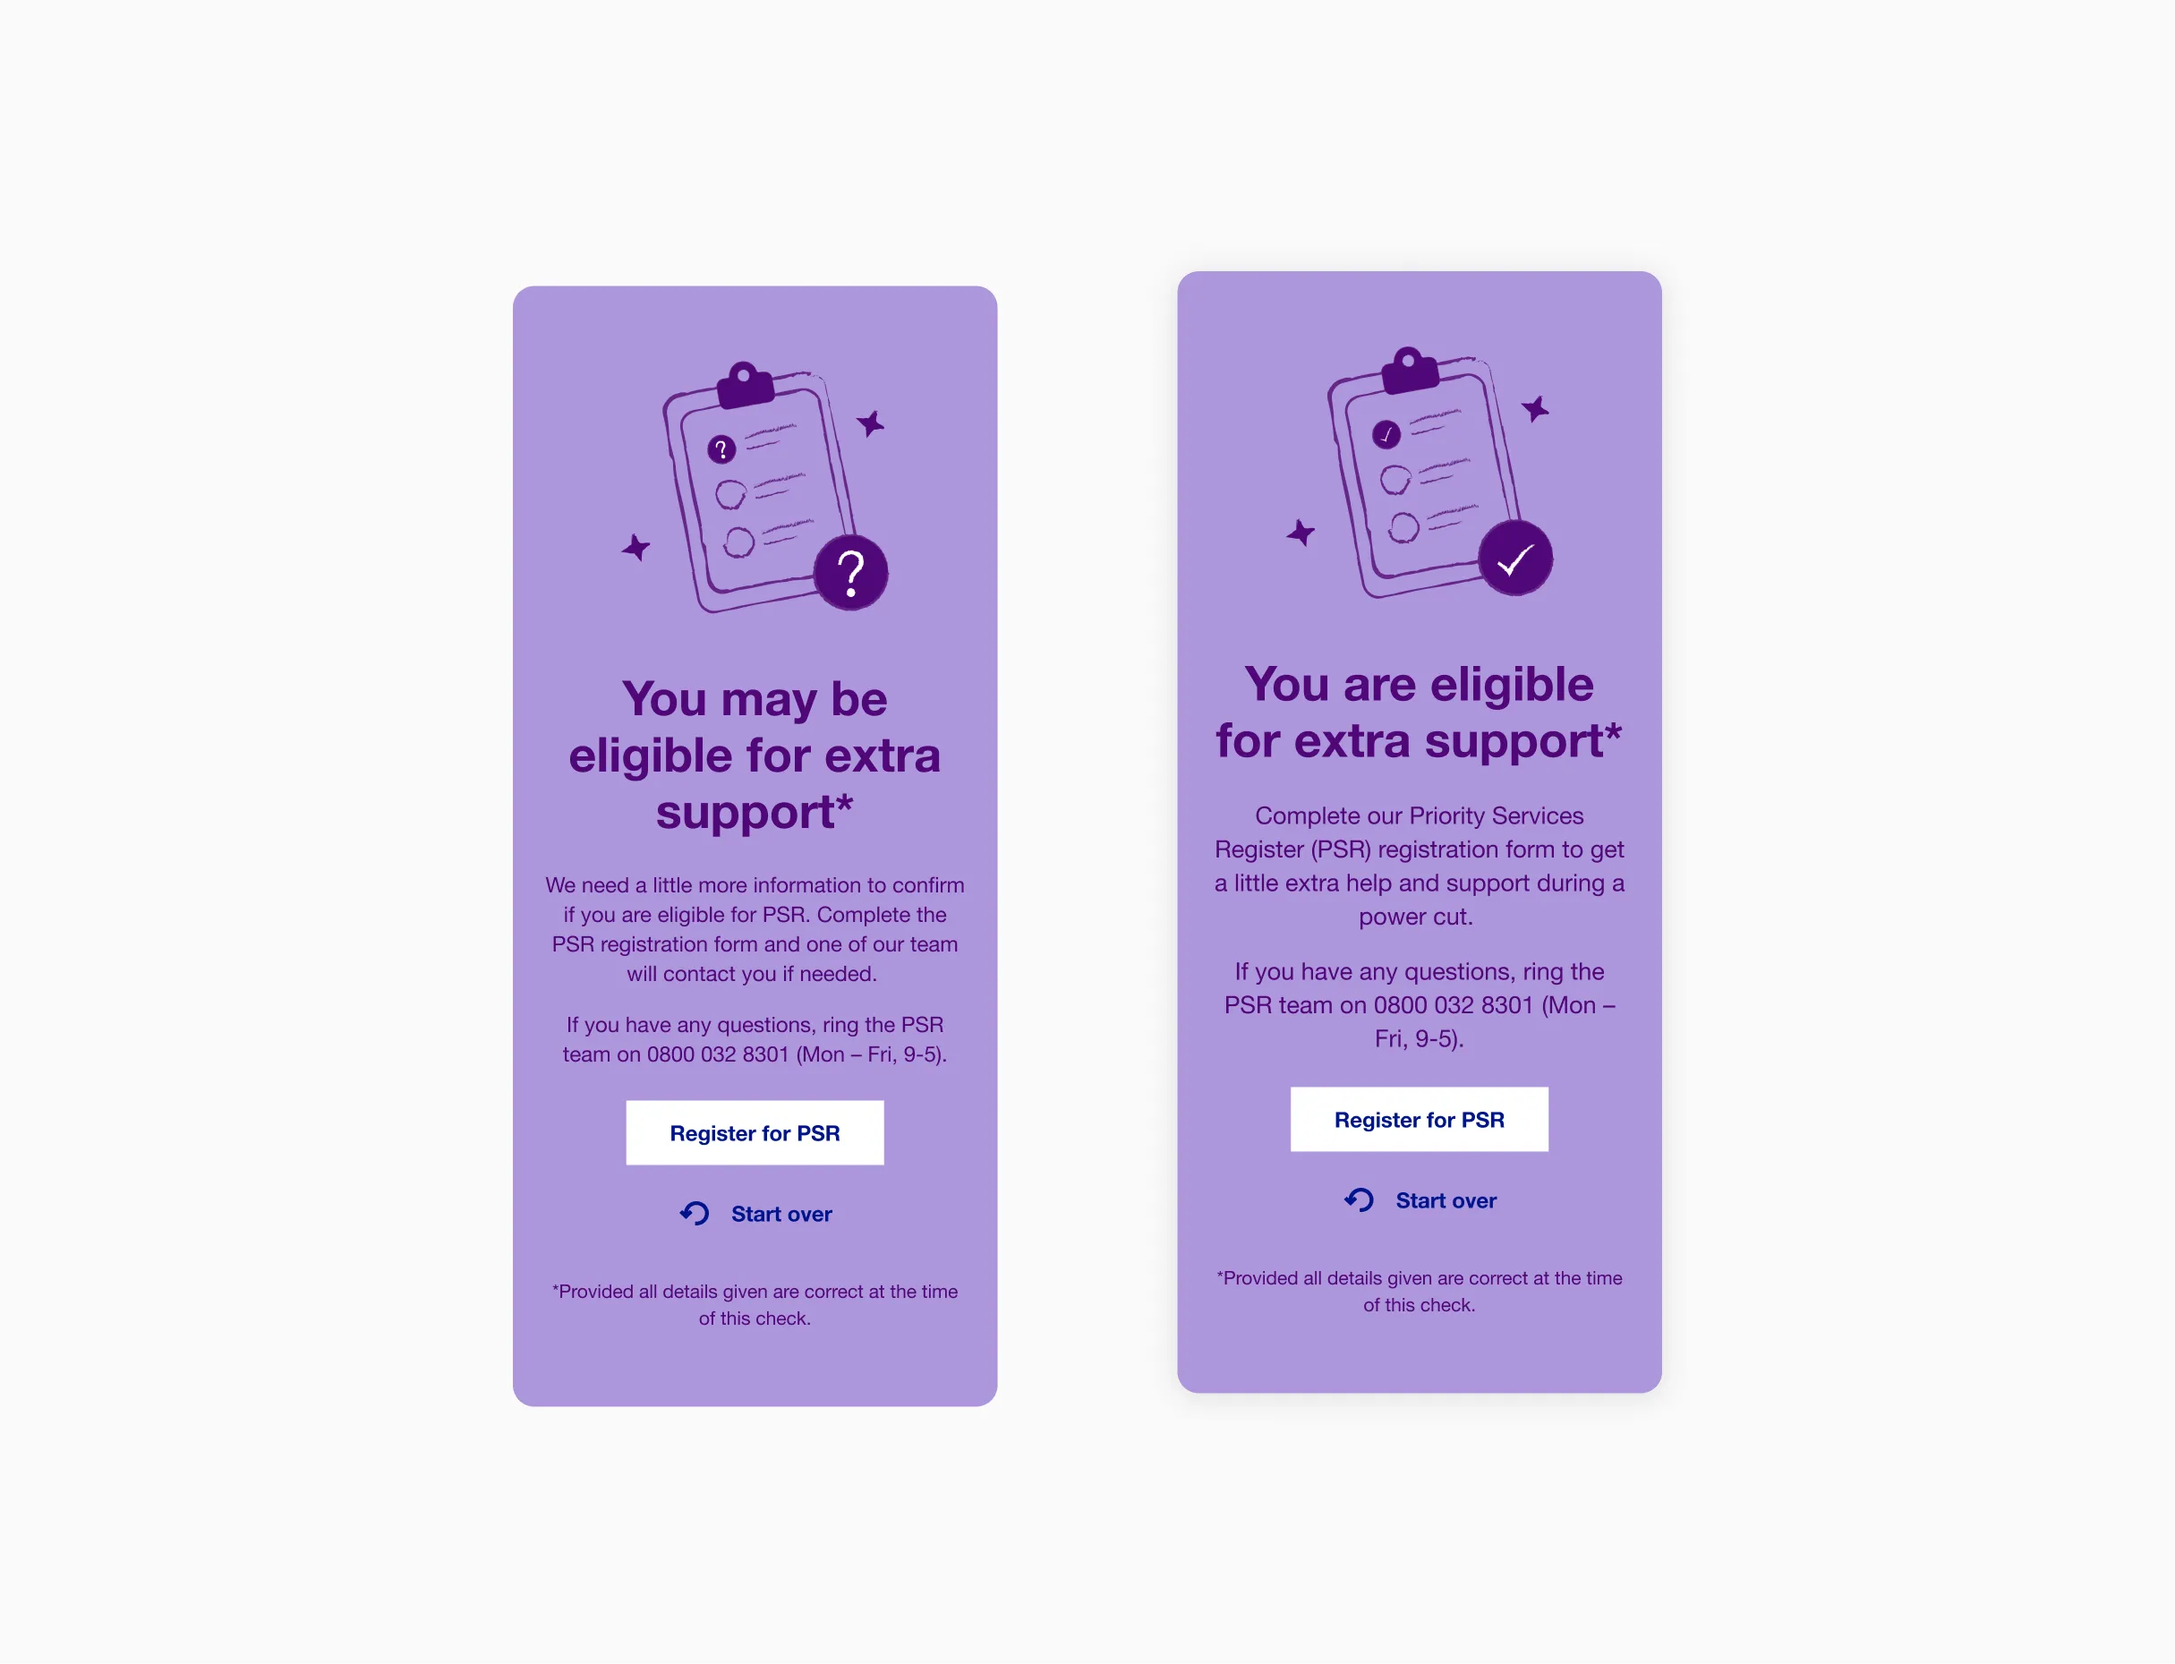
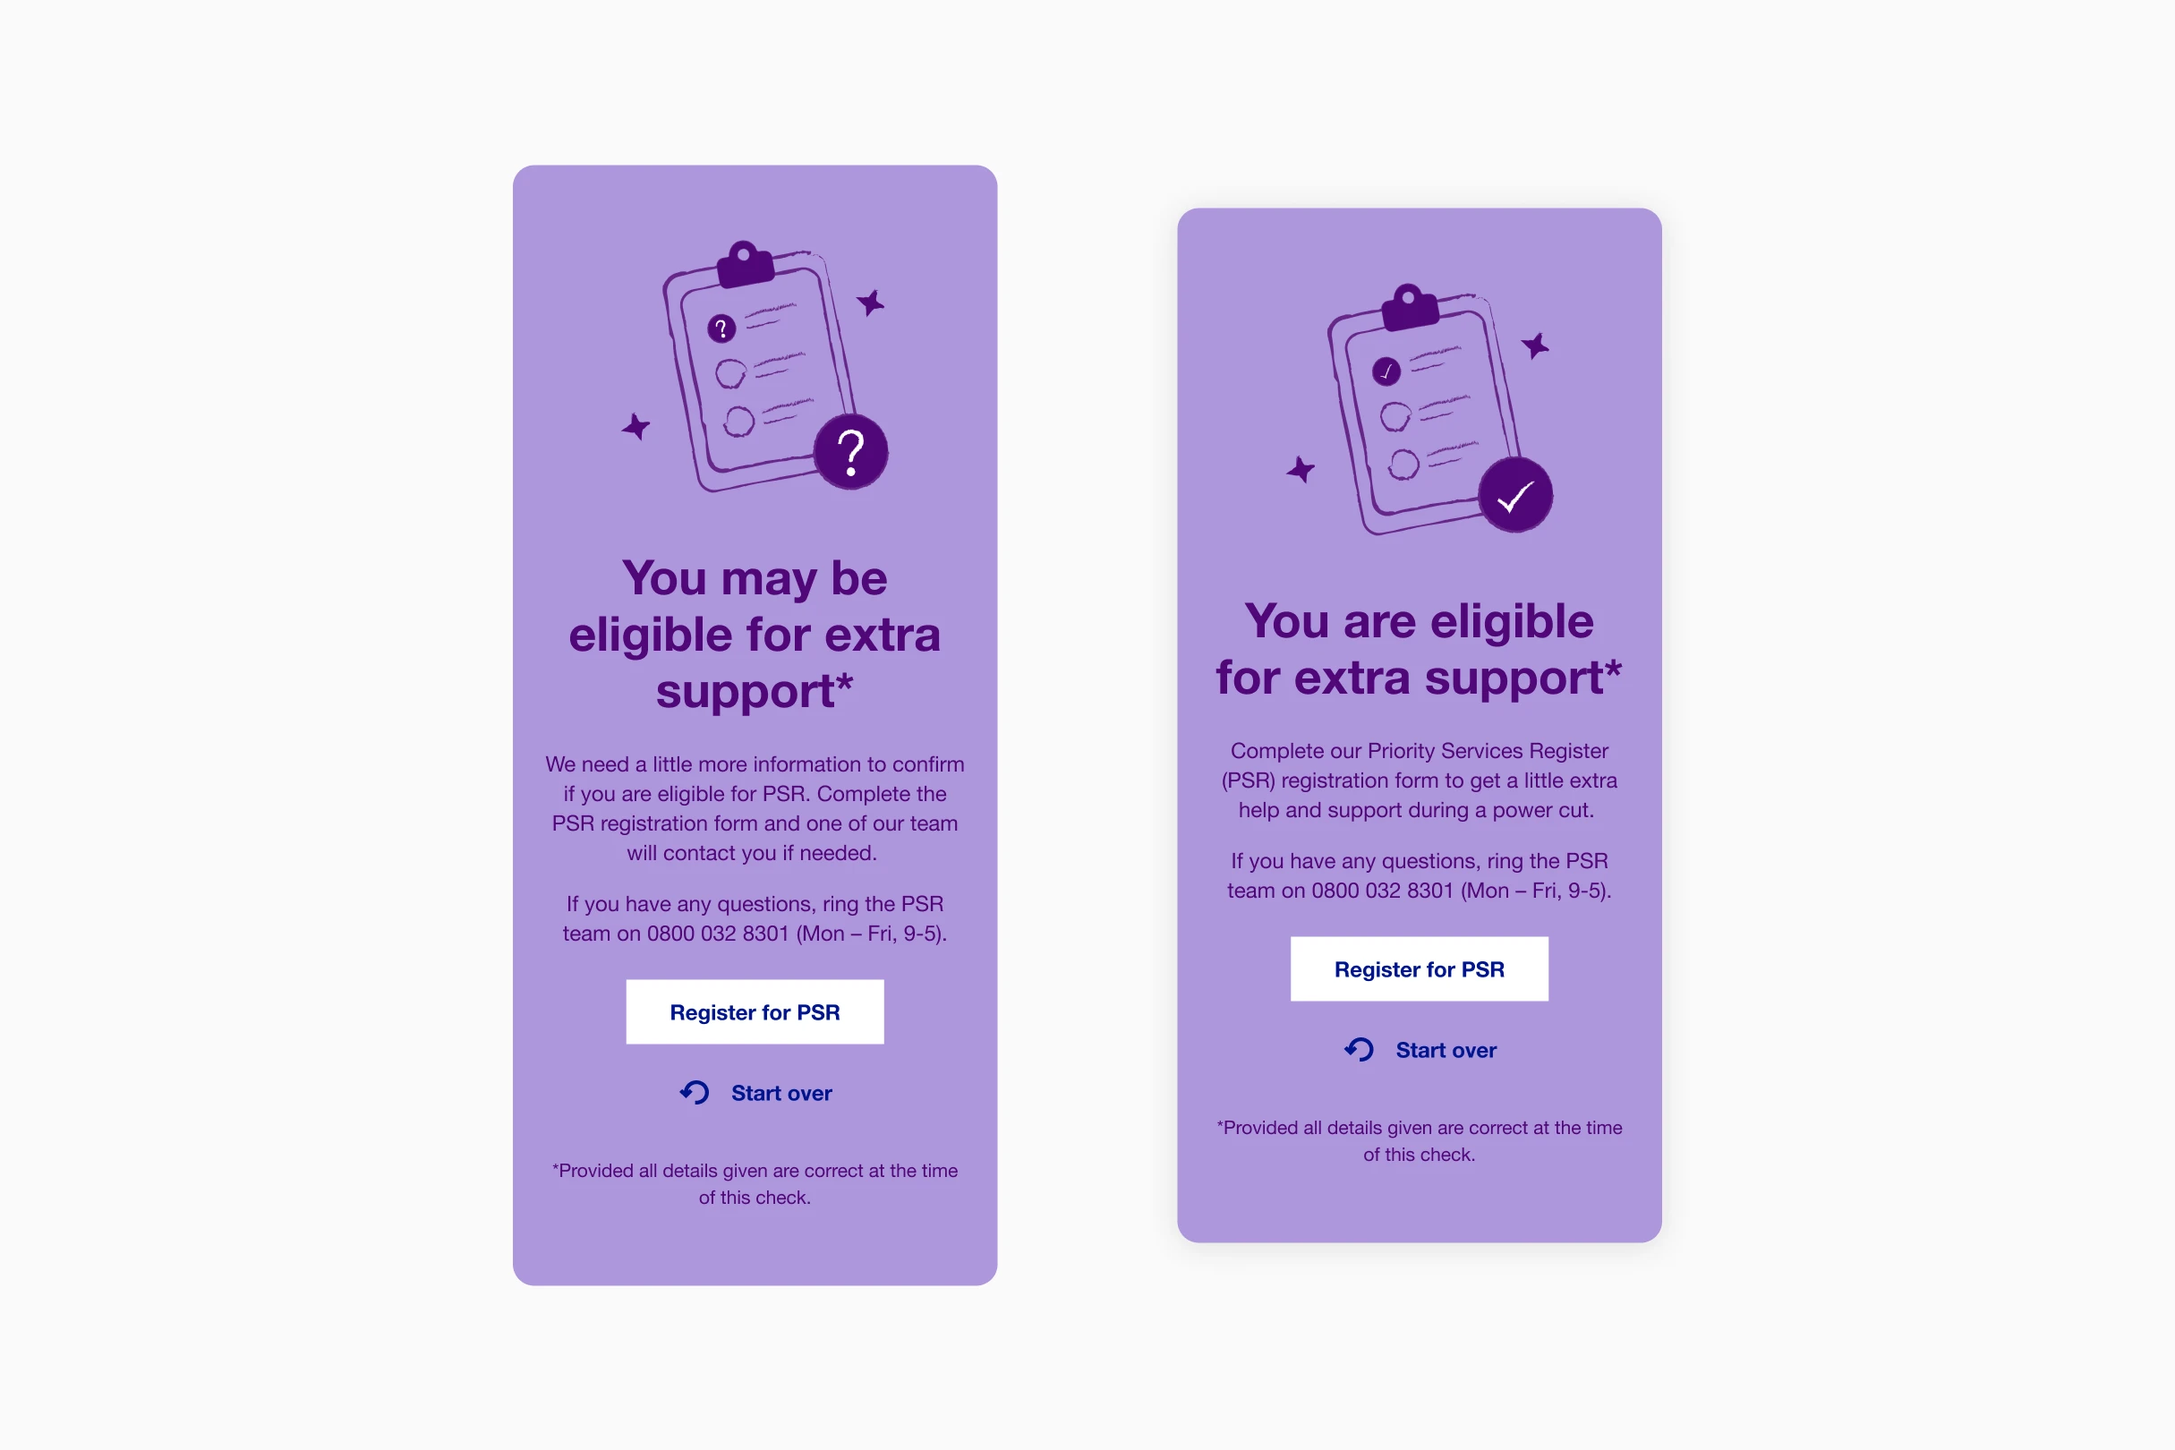
PSR case study tweaks

diff --git a/projects/eligibility-checker.html b/projects/eligibility-checker.html
@@ -57,8 +57,8 @@
                 </p>
                 
                                 <ul class="case-study-list">
-    <li>Role: Lead designer</li>
-    <li>Team: 1 Content Designer, 1 PM and 1 Engineer</li>
+    <li>Point 1</li>
+    <li>Point 2</li>
 </ul>
 
 
@@ -86,7 +86,7 @@
 <figure class="case-study-figure">
 
 <div class="case-study-image">
-        <img src="../assets/images/projects/NGED/PSR-07.webp" class="lightbox-trigger" alt="National Grid's legacy priority services register application form">
+        <img src="../assets/images/projects/NGED/psr-10.webp" class="lightbox-trigger" alt="National Grid's legacy priority services register application form">
     </div>
     
     <figcaption class="image-caption">The current National Grid priority services register application form</figcaption>
@@ -150,15 +150,55 @@
 
 <p>This decision also simplified the back-end logic. Reducing the decision tree by 50%. That was because selecting unsure created a split in the decision tree where the system had to understand if the user moving on has flagged unsure at any point which would eventually lead them to a ‘you may be eligible’ screen.</p>
 
+    <h3 class="section-title">Design validation</h3>
+<p>
+    Ideally, a tool designed for vulnerable customers would undergo extensive external testing, but a tight timeline meant we had to be strategic. I leaned heavily into the existing NGED design system and built 90% of the experience using established NGED design system patterns. We could skip testing the basic UI and focus our internal sessions entirely on the flow and tone of voice.
+
+</p>
+
+<p>
+    To validate the UX, I ran sessions with colleagues from across the business, specifically including those who were already on a PSR themselves. Their feedback was incredibly consistent and helped us quickly pinpoint the main friction points while saving significant time and budget.
+</p>
+
+<ul class="case-study-list">
+    <li>Many participants completely missed the "unsure" help provider.</li>
+    <li>The introductory page didn't clearly explain what the Priority Services Register actually is.</li>
+    <li>Inline tooltips were overlooked by all participants.</li>
+    <li>Clicking "None of the above" was ambiguous and users didn't realise it would lead them to a subsequent category of needs.</li>
+</ul>
+
+<figure class="case-study-figure">
+
 <div class="case-study-image">
-        <img src="../assets/images/projects/NGED/PSR-08.webp" class="lightbox-trigger" alt="UI Design">
+        <img src="../assets/images/projects/NGED/PSR-05.webp" class="lightbox-trigger" alt="UI Design">
     </div>
+    
+    <figcaption class="image-caption">Updated design based on testing feedback</figcaption>
+    
+</figure>
+
+<figure class="case-study-figure">
+
+<div class="case-study-image">
+        <img src="../assets/images/projects/NGED/PSR-06.webp" class="lightbox-trigger" alt="UI Design">
+    </div>
+    
+    <figcaption class="image-caption">Unsure instead became a precursor to the 'you aren't eligible' result</figcaption>
+    
+</figure>
+
+    <h3 class="section-title">Technical feasbility</h3>
+
+<p>
+    I needed to prove the technical feasibility of the design. While we reused a significant amount of existing components, the new flow required some custom elements and styling. We built and deployed the tool in a pre-prod environment, which was a critical step. It gave us a 1:1 understanding of exactly what backend logic changes were required to seamlessly align our new flow with National Grid’s existing architecture before pushing to production.
+</p>
+
 
                     <h3 class="section-title">Softening the visuals</h3>
 <p>The users coming to this tool may be managing chronic illness, caring for a vulnerable relative, or dealing with a difficult diagnosis. The design had to feel approachable without feeling patronising.</p>
 
 <div class="case-study-image">
-        <img src="../assets/images/projects/NGED/PSR-05.webp" class="lightbox-trigger" alt="UI Design">
+        <img src="../assets/images/projects/NGED/PSR-07.webp" class="lightbox-trigger" alt="UI Design">
     </div>
 
 
@@ -172,22 +212,25 @@
 <p>The tool reflected the PSR form of being able to submit a claim for yourself or on behalf of somebody else. The language reflected that to ensure there was no confusion about the journey taken by customers.</p>
 
 <div class="case-study-image">
-        <img src="../assets/images/projects/NGED/PSR-06.webp" class="lightbox-trigger" alt="UI Design">
+        <img src="../assets/images/projects/NGED/PSR-08.webp" class="lightbox-trigger" alt="UI Design">
     </div>
 
-    <h3 class="section-title">Pragmatic validation</h3>
-<p>
-    Ideally, a tool designed for vulnerable customers would undergo extensive external usability testing. However, working within strict timeline constraints meant we had to be strategic with our validation.
-</p>
-<p>
-    To mitigate risk, I leaned heavily into the existing NGED design system. By building 90% of the experience using established, well-known UI patterns from the wider National Grid site, we could be confident in the foundational usability. This allowed us to focus our internal testing sessions with colleagues purely on comprehending the flow and the tone of voice, rather than basic UI interaction, saving significant time and budget.
-</p>
+
 
                     <h3 class="section-title">Project outcomes</h3>
 <p>Most users can find out if they are eligible for PSR within two clicks. Given the old experience required completing an entire form before finding out if you even qualified. This felt like a meaningful shift towards Ofgems goal of getting more customers, who are eligible, onto the register. </p>
 
 <p>We defined success for this tool by looking beyond a 'you are eligible' result. <span class="rn-highlight">The ultimate goal was driving those users to the PSR application</span>. Due to system tracking limitations, we cannot directly attribute final application completions to this tool. Instead, we established increased traffic to the main application form as our primary success metric. We are actively tracking this data to see if reducing that up front complexity translates to a long term increase in sign ups.</p>
 
+<figure class="case-study-figure">
+
+<div class="case-study-image">
+        <img src="../assets/images/projects/NGED/PSR-09.webp" class="lightbox-trigger" alt="UI Design">
+    </div>
+    
+    <figcaption class="image-caption">Unsure instead became a precursor to the 'you aren't eligible' result</figcaption>
+    
+</figure>
 
             </article>
 
